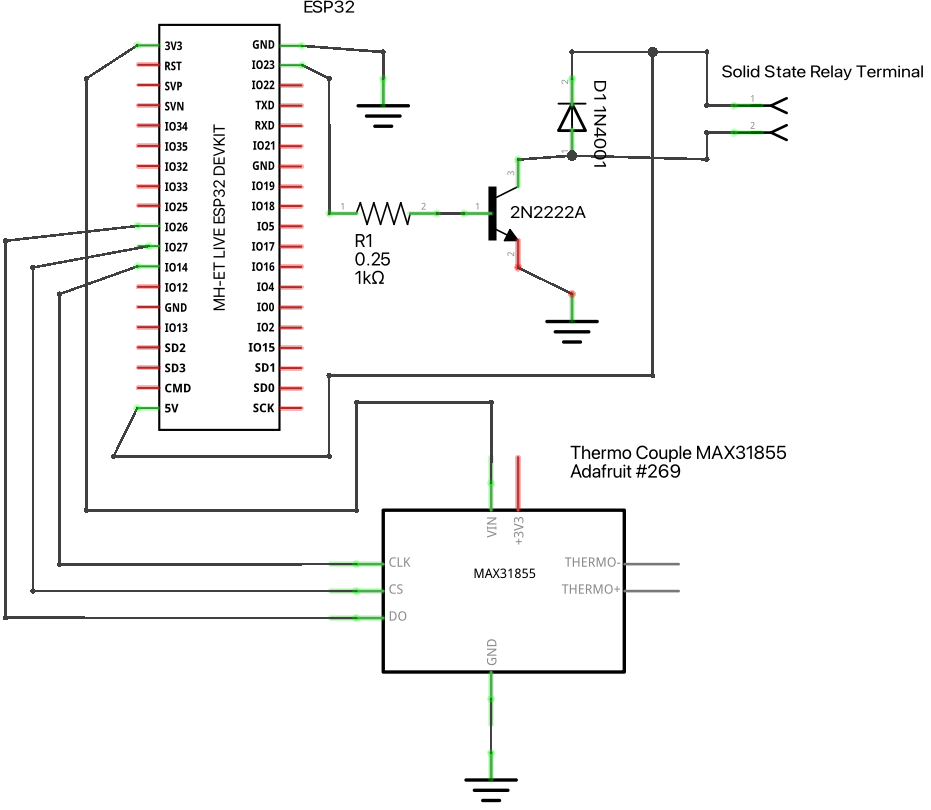
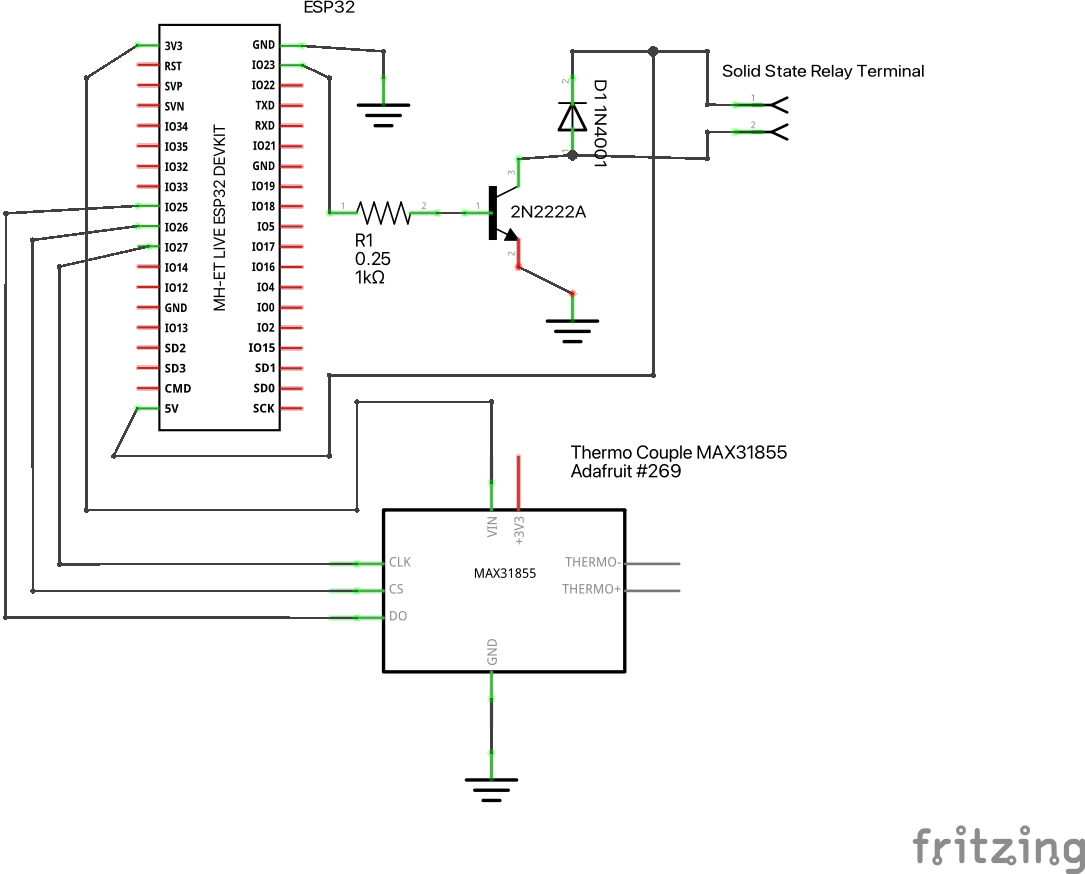
Default pin layout changed (because of debugging)

Changed region(s): [[0.0, 0.0, 0.9968, 0.9259], [0.841, 0.9259, 1.0, 1.0], [0.4984, 0.9259, 0.5607, 1.0]]

diff --git a/include/ESPressoMachineDefaults.h b/include/ESPressoMachineDefaults.h
@@ -35,9 +35,9 @@
 // GPIO PINS
 #define HEAT_RELAY_PIN 13 // 13 + GND are close on the ESP23 DEV Board
 
-#define SENSOR_MAX_DO 26  
-#define SENSOR_MAX_CS 27
-#define SENSOR_MAX_CLK 14
+#define SENSOR_MAX_DO 25  
+#define SENSOR_MAX_CS 26
+#define SENSOR_MAX_CLK 27
 // 
 // Compile time - not to be user configured.
 //

diff --git a/include/sensor_max31855.h b/include/sensor_max31855.h
@@ -6,13 +6,13 @@
 
 
 #ifndef SENSOR_MAX_DO
-    #define SENSOR_MAX_DO 26
+    #define SENSOR_MAX_DO 25
 #endif
 #ifndef SENSOR_MAX_CS
-    #define SENSOR_MAX_CS 27
+    #define SENSOR_MAX_CS 26
 #endif
 #ifndef SENSOR_MAX_CLK
-    #define SENSOR_MAX_CLK 14
+    #define SENSOR_MAX_CLK 27
 #endif
 
 
